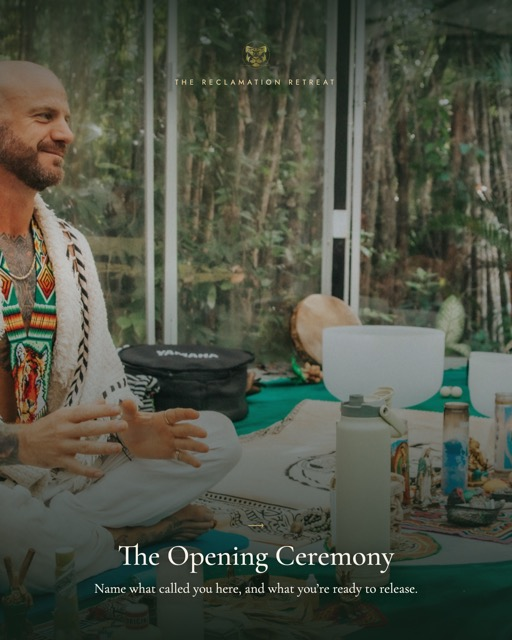
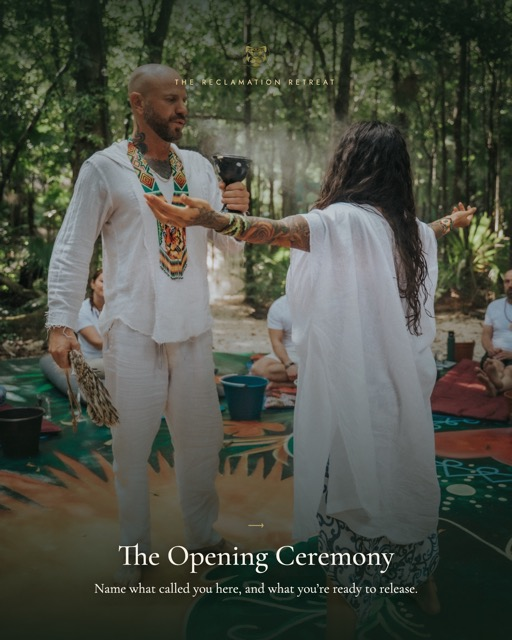
Slide 2 adds 'The Reclamation Retreat'; new photos for Opening Ceremony (4) + Integration (8); bump ASSET_V

diff --git a/index.html b/index.html
@@ -365,7 +365,7 @@ const LOGO_ASSETS = [
 const UPLOAD_URL = "https://github.com/laurenbur2/tiger-soul-calendar/upload/main/assets";
 // Cache-buster: bump this whenever you replace an image but keep its filename,
 // so browsers fetch the new version instead of showing a stale cached one.
-const ASSET_V = "2";
+const ASSET_V = "3";
 function ver(u){ return u + (u.indexOf('?') >= 0 ? '&' : '?') + 'v=' + ASSET_V; }
 const logoHTML =
   `<div class="sec-label">Logo assets <span class="sec-note">click to download PNG</span></div>` +
